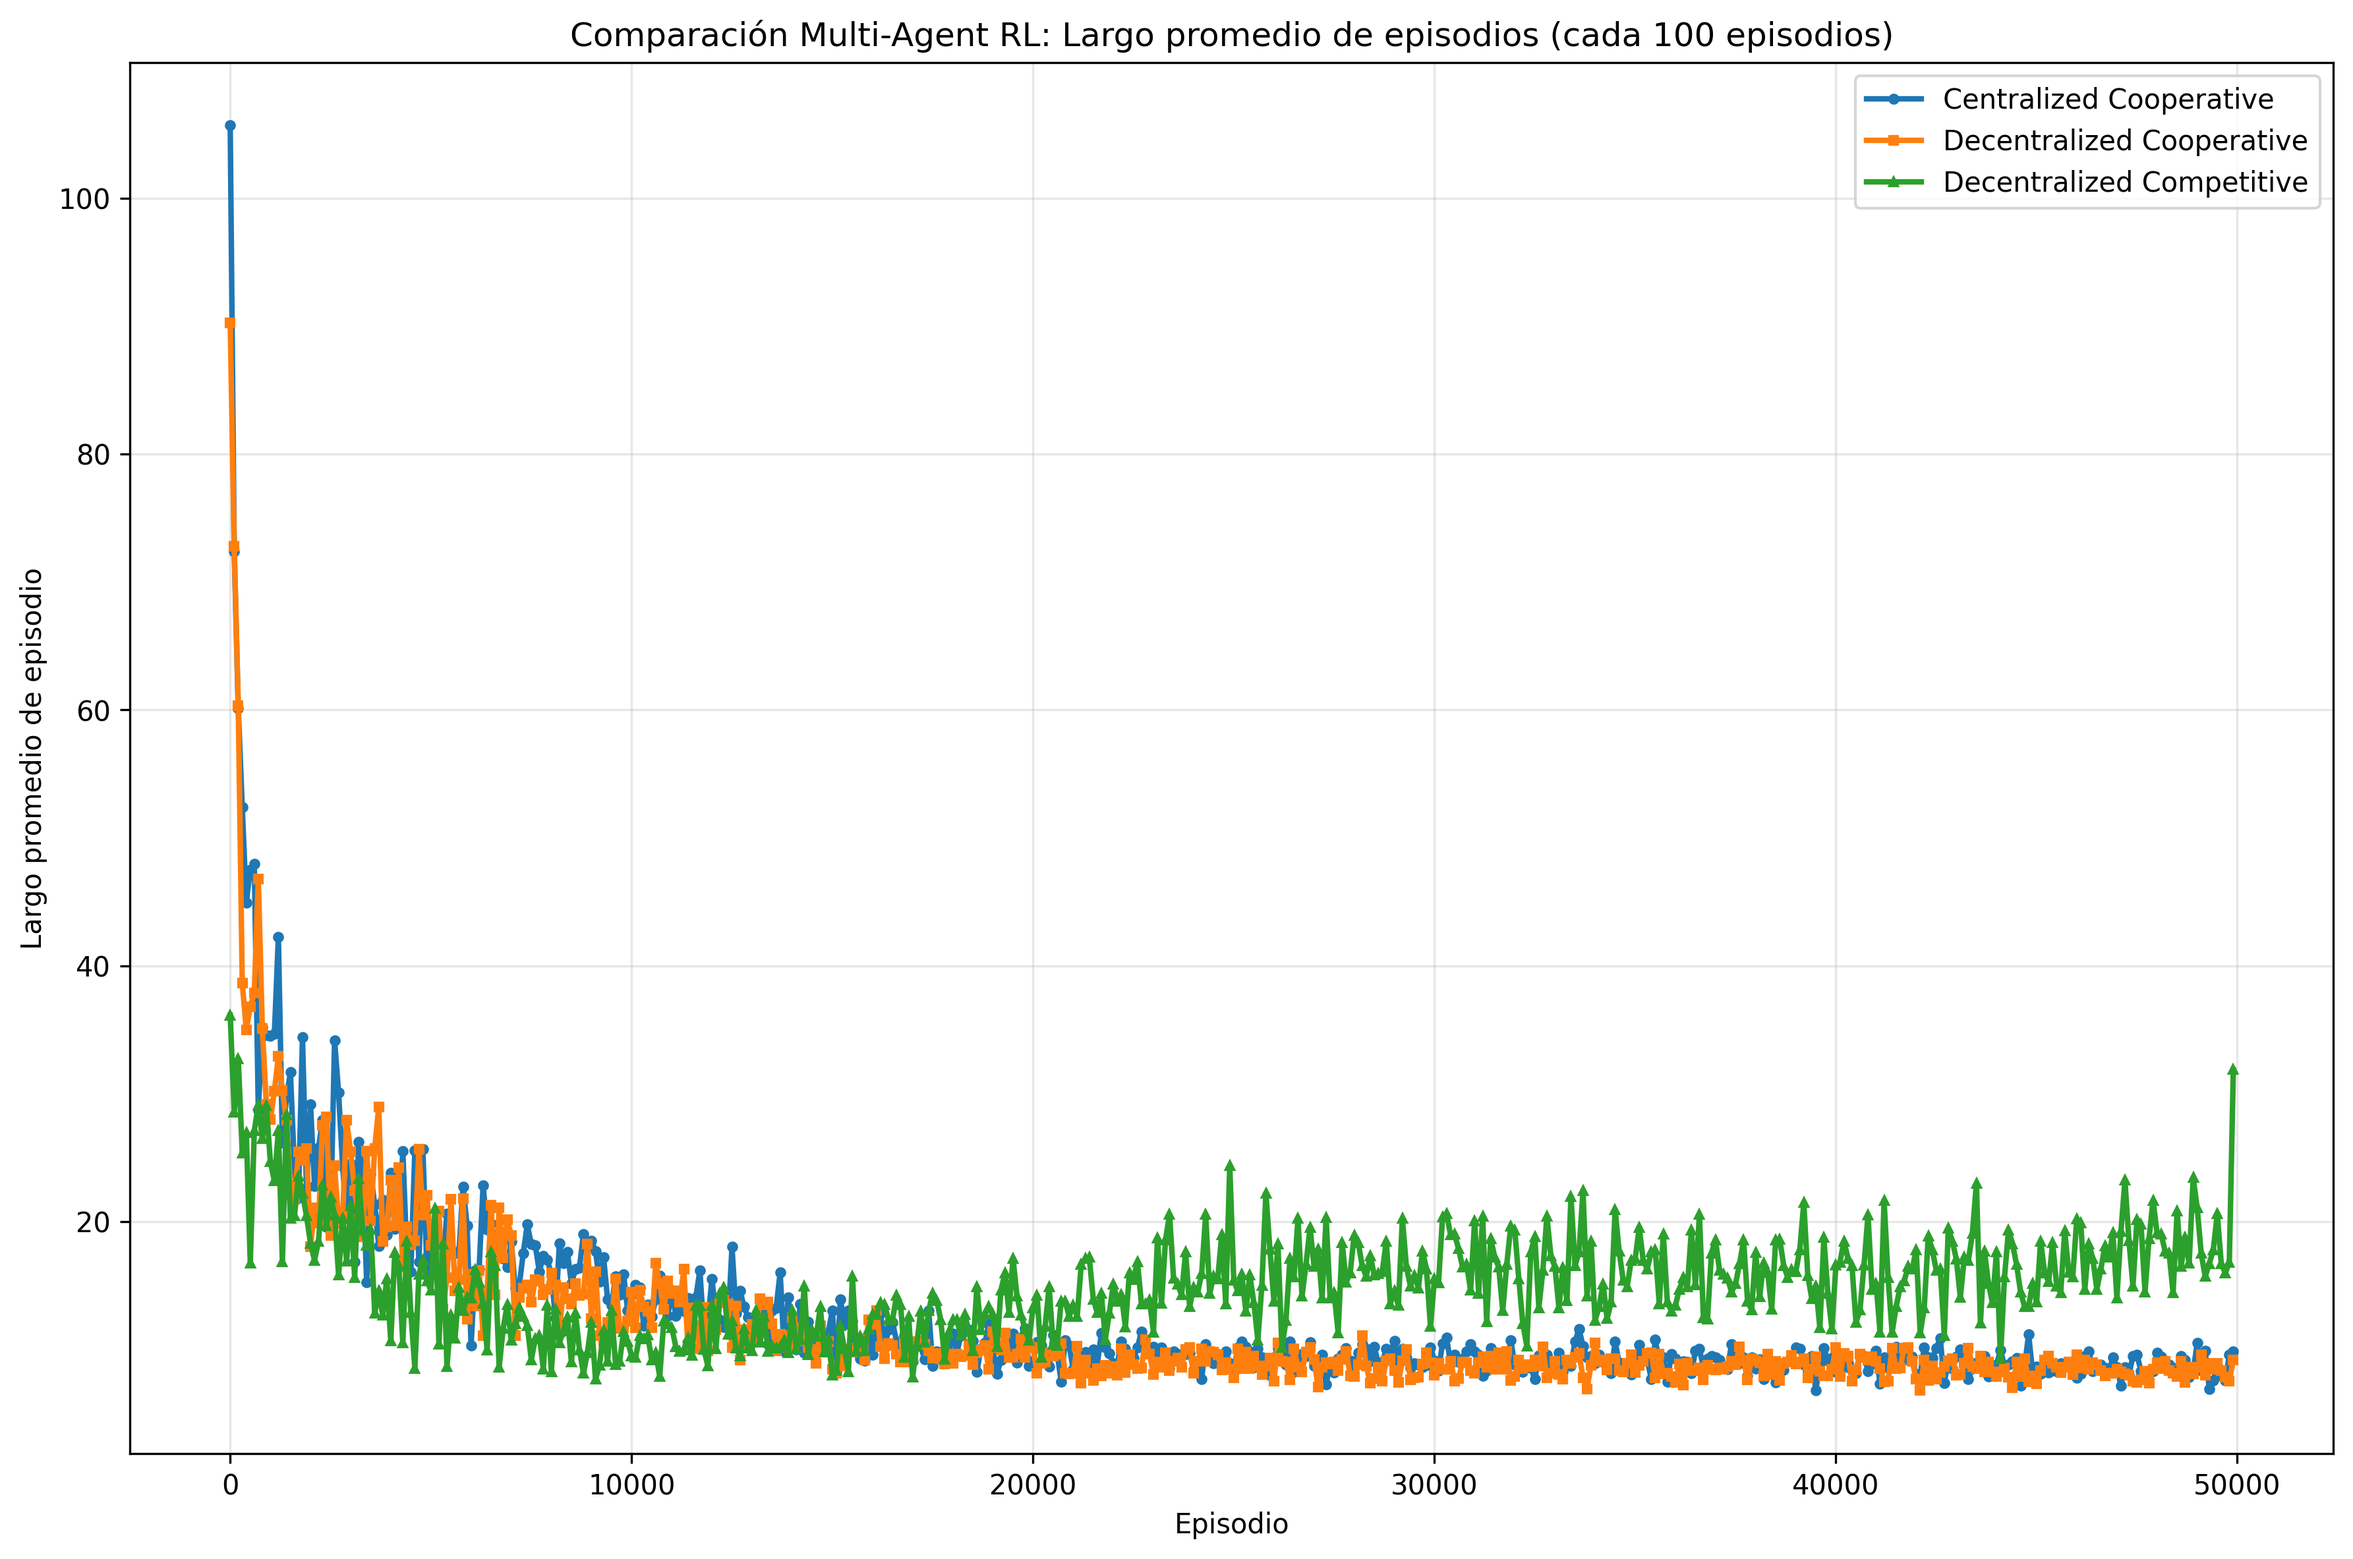
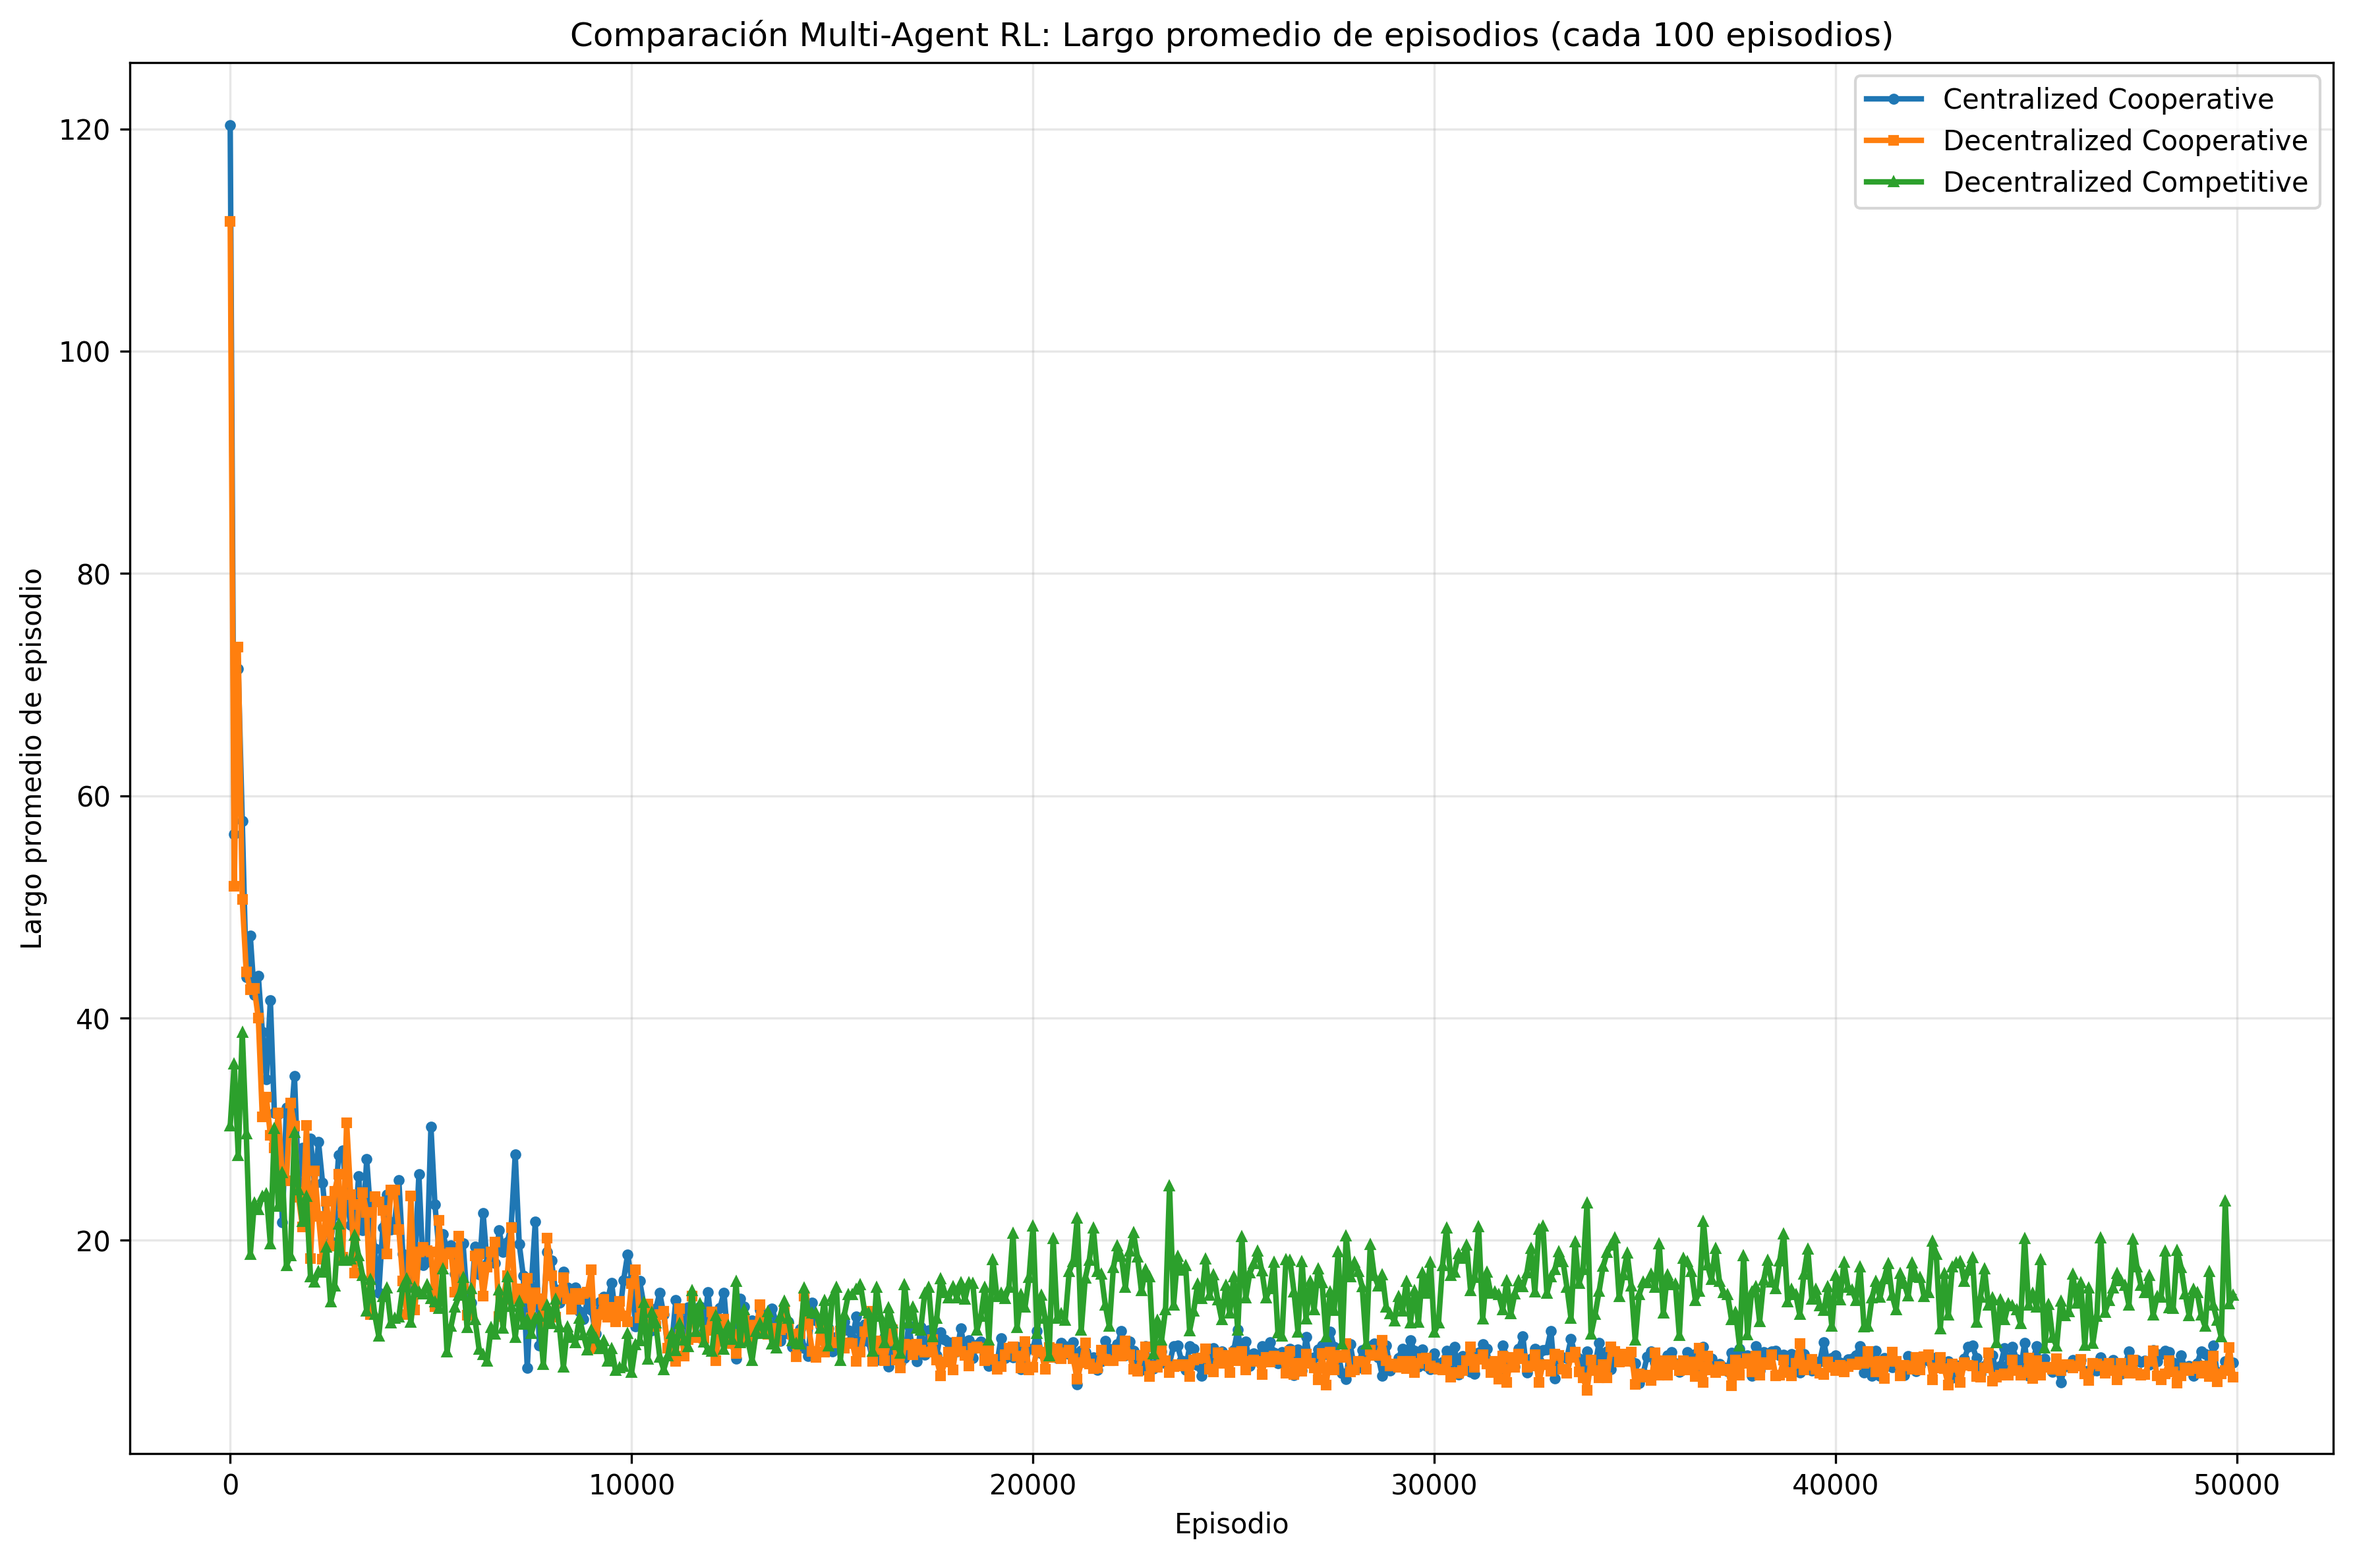
falta solo g

Changed region(s): [[0.0933, 0.4628, 0.9639, 0.8948], [0.0933, 0.3702, 0.1244, 0.432], [0.0311, 0.7713, 0.0622, 0.8022]]

diff --git a/Agents/qlearning_multiagent.py b/Agents/qlearning_multiagent.py
@@ -9,12 +9,10 @@ class CentralizedAgent:
 
     def learn(self, env, run_num=None):
         lengths = []
-        total_rewards = []
         for ep in range(self.episodes):
             state = env.reset()
             done = False
             steps = 0
-            episode_reward = 0
             while not done:
                 action = self.agent.choose_action(state)
                 next_state, reward, done = env.step(action)
@@ -27,16 +25,15 @@ class CentralizedAgent:
 
                 state = next_state
                 steps += 1
-                episode_reward += reward
             lengths.append(steps)
-            total_rewards.append(episode_reward)
 
         if run_num is not None:
             recent_avg_length = np.mean(lengths[-100:]) if len(lengths) >= 100 else np.mean(lengths)
-            recent_avg_reward = np.mean(total_rewards[-100:]) if len(total_rewards) >= 100 else np.mean(total_rewards)
-            print(f"  Run {run_num} - Largo promedio últimos 100 episodios: {recent_avg_length:.2f}, Recompensa promedio: {recent_avg_reward:.2f}")
+            convergence_std = np.std(lengths[-100:]) if len(lengths) >= 100 else np.std(lengths)
+            min_length = np.min(lengths[-100:]) if len(lengths) >= 100 else np.min(lengths)
+            print(f"  Run {run_num} - Largo promedio últimos 100: {recent_avg_length:.2f}, Mín últimos 100: {min_length}, Convergencia (std): {convergence_std:.2f}")
 
-        return lengths, total_rewards
+        return lengths
 
 
 class DecentralizedAgent:
@@ -51,13 +48,11 @@ class DecentralizedAgent:
 
     def learn(self, env, run_num=None):
         lengths = []
-        agent_rewards = [[] for _ in range(self.num_agents)]
 
         for ep in range(self.episodes):
             state = env.reset()
             done = False
             steps = 0
-            episode_rewards = [0] * self.num_agents
 
             while not done:
                 actions = []
@@ -74,20 +69,16 @@ class DecentralizedAgent:
                     max_next_q = max(next_qs) if next_qs else 0.0
                     new_q = old_q + agent.alpha * (rewards[i] + agent.gamma * max_next_q - old_q)
                     agent.Q[(state, actions[i])] = new_q
-                    episode_rewards[i] += rewards[i]
 
                 state = next_state
                 steps += 1
 
             lengths.append(steps)
-            for i in range(self.num_agents):
-                agent_rewards[i].append(episode_rewards[i])
 
         if run_num is not None:
             recent_avg_length = np.mean(lengths[-100:]) if len(lengths) >= 100 else np.mean(lengths)
-            print(f"  Run {run_num} - Largo promedio últimos 100 episodios: {recent_avg_length:.2f}")
-            for i in range(self.num_agents):
-                recent_avg_reward = np.mean(agent_rewards[i][-100:]) if len(agent_rewards[i]) >= 100 else np.mean(agent_rewards[i])
-                print(f"    Agente {i+1} - Recompensa promedio últimos 100 episodios: {recent_avg_reward:.2f}")
+            convergence_std = np.std(lengths[-100:]) if len(lengths) >= 100 else np.std(lengths)
+            min_length = np.min(lengths[-100:]) if len(lengths) >= 100 else np.min(lengths)
+            print(f"  Run {run_num} - Largo promedio últimos 100: {recent_avg_length:.2f}, Mín últimos 100: {min_length}, Convergencia (std): {convergence_std:.2f}")
 
-        return lengths, agent_rewards
+        return lengths

diff --git a/MainMultiAgent.py b/MainMultiAgent.py
@@ -1,5 +1,4 @@
 from Environments.MultiAgentEnvs.HunterAndPreyEnv import HunterAndPreyEnv
-from Environments.MultiAgentEnvs.CompetitiveHunterAndPreyEnv import CompetitiveHunterAndPreyEnv
 from Environments.MultiAgentEnvs.CentralizedHunterEnv import CentralizedHunterEnv
 from Environments.MultiAgentEnvs.HunterEnv import HunterEnv
 from MainSimpleEnvs import show, get_action_from_user
@@ -14,7 +13,7 @@ def run_multiagent_experiment(env_class, agent_class, agent_kwargs, runs=30):
     for run in range(runs):
         env = env_class()
         agent = agent_class(**agent_kwargs)
-        lengths, rewards = agent.learn(env, run_num=run+1)
+        lengths = agent.learn(env, run_num=run+1)
         lengths_per_run.append(lengths)
 
     lengths_per_run = np.array(lengths_per_run)
@@ -130,7 +129,7 @@ def run_decentralized_competitive_experiment():
 
     print(f"Configuración: {runs} runs, {episodes} episodios, γ={gamma}, α={alpha}, ε={epsilon}, Q_init={init_q}")
 
-    env = CompetitiveHunterAndPreyEnv()
+    env = HunterAndPreyEnv()
     agent_kwargs = {
         'num_agents': env.num_of_agents,
         'single_agent_actions': env.single_agent_action_space,
@@ -142,7 +141,7 @@ def run_decentralized_competitive_experiment():
     }
 
     avg_lengths, lengths_per_run = run_multiagent_experiment(
-        CompetitiveHunterAndPreyEnv, DecentralizedAgent, agent_kwargs, runs
+        HunterAndPreyEnv, DecentralizedAgent, agent_kwargs, runs
     )
 
     print(f"\nResultados Decentralized Competitive:")
